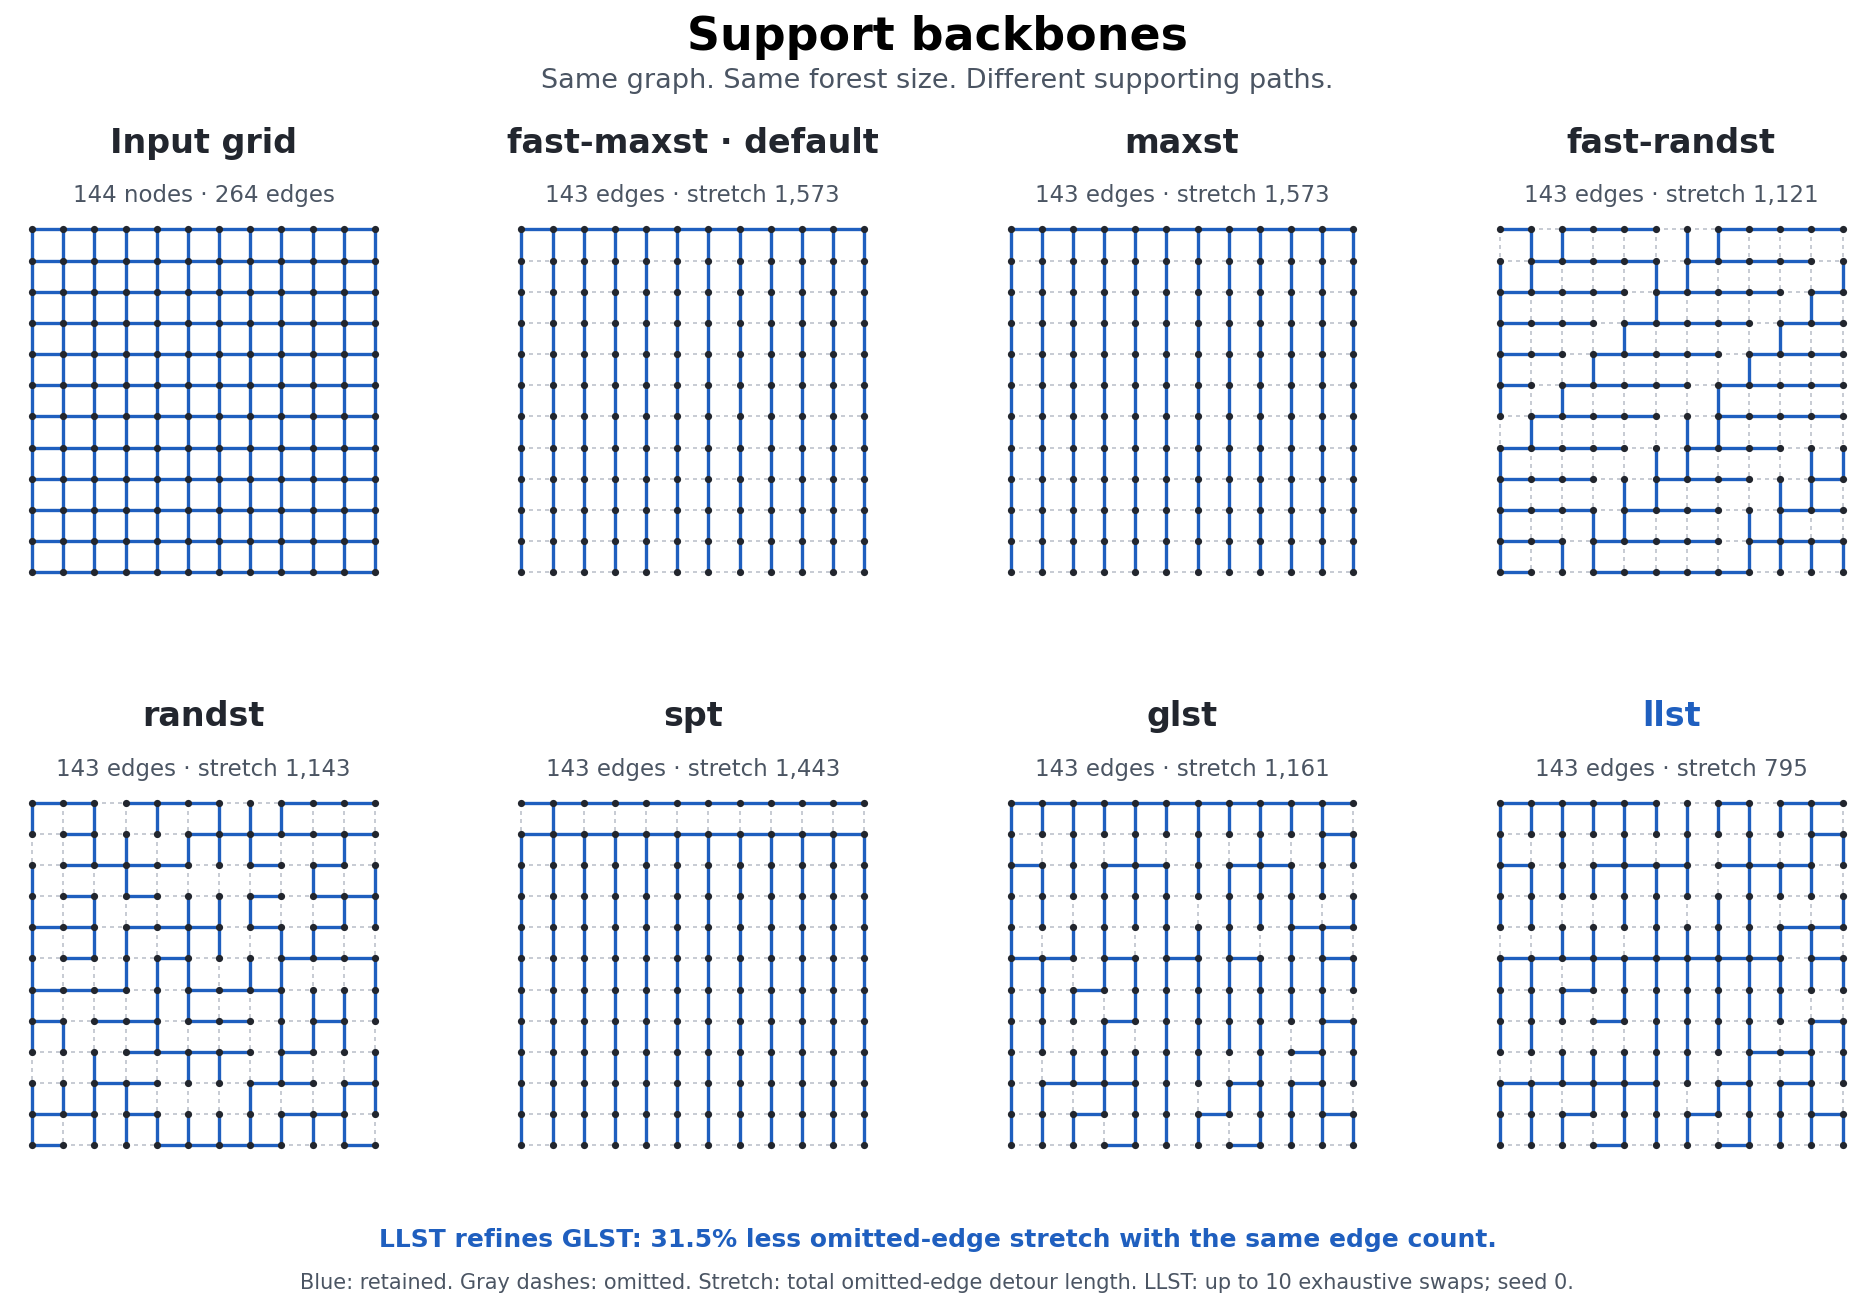
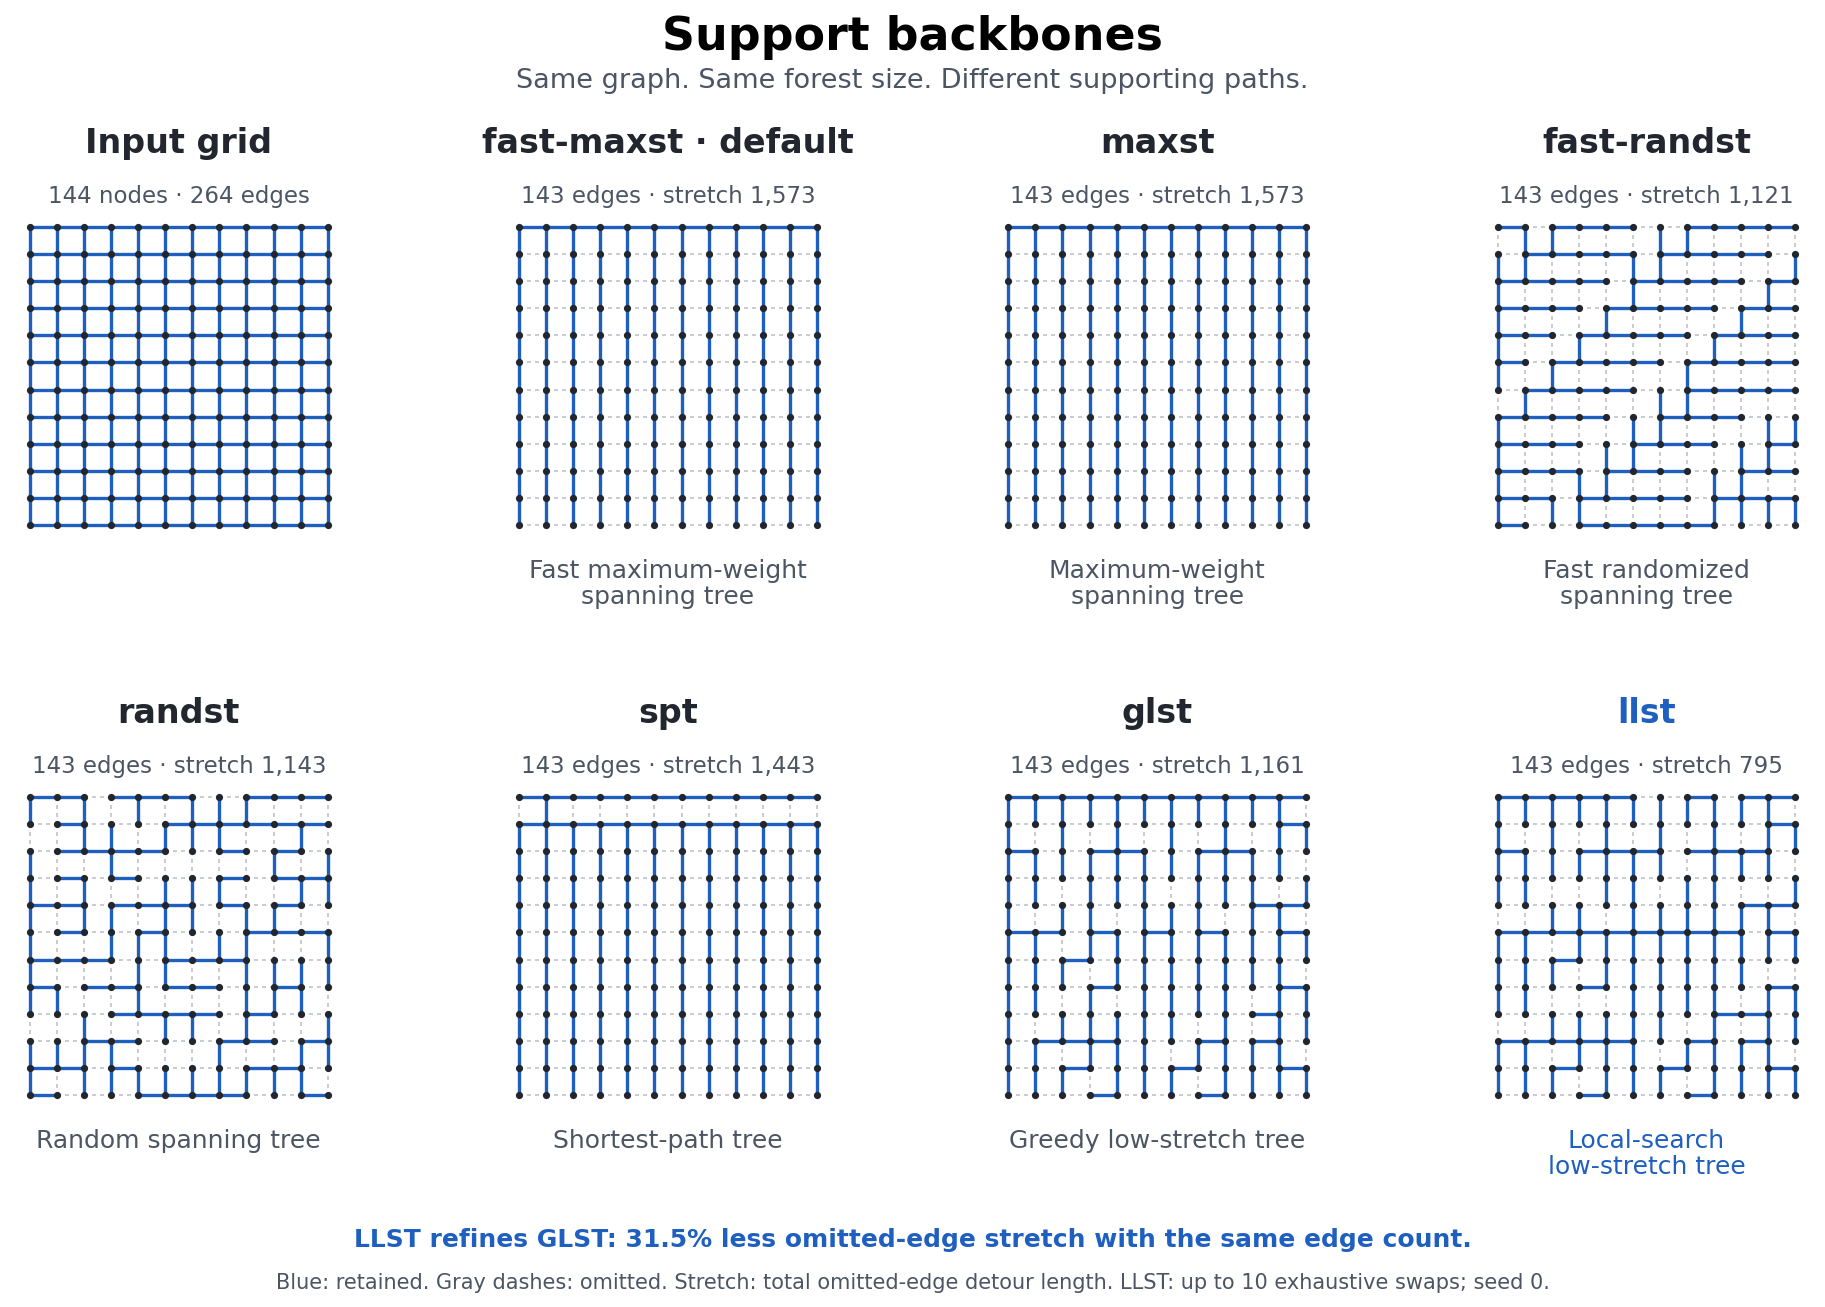
updated

diff --git a/examples/01_grid_demo.py b/examples/01_grid_demo.py
@@ -37,6 +37,15 @@ KEEP_RATIO = 0.72  # a 12x12 grid needs 143/264 = 0.542 just to stay connected
 SEED = 0
 DEMO_BACKBONE = "randst"
 SAMPLE_DEMO_BACKBONE = "fixed-randst"
+BACKBONE_NAMES = {
+    "fast-maxst": "Fast maximum-weight\nspanning tree",
+    "maxst": "Maximum-weight\nspanning tree",
+    "fast-randst": "Fast randomized\nspanning tree",
+    "randst": "Random spanning tree",
+    "spt": "Shortest-path tree",
+    "glst": "Greedy low-stretch tree",
+    "llst": "Local-search\nlow-stretch tree",
+}
 
 
 def figure_backbones(graph, positions, out_dir):
@@ -143,6 +152,17 @@ def _draw_backbones(graph, positions, out_dir, masks, measurements):
             mask=mask,
             accent=name == "llst",
         )
+        ax.text(
+            0.5,
+            -0.055,
+            BACKBONE_NAMES[name],
+            transform=ax.transAxes,
+            ha="center",
+            va="top",
+            fontsize=12,
+            linespacing=1.15,
+            color="#1f5fbf" if name == "llst" else "#4b5563",
+        )
     reduction = 1 - measurements["llst"]["omitted_edge_stretch"] / max(
         1.0, measurements["glst"]["omitted_edge_stretch"]
     )
@@ -175,7 +195,7 @@ def _draw_backbones(graph, positions, out_dir, masks, measurements):
         color="#4b5563",
     )
     fig.subplots_adjust(
-        left=0.015, right=0.985, bottom=0.11, top=0.83, wspace=0.08, hspace=0.52
+        left=0.015, right=0.985, bottom=0.15, top=0.83, wspace=0.08, hspace=0.74
     )
     return _save(fig, out_dir, "grid_backbones.png")
 
@@ -223,7 +243,7 @@ def _animate_backbones(graph, positions, out_dir, masks, measurements):
         fig.text(
             0.5,
             0.91,
-            f"{index} / {len(masks)}     ·     same graph, seed 0",
+            f"{index} / {len(masks)}     ·     {BACKBONE_NAMES[name].replace(chr(10), ' ')}",
             ha="center",
             fontsize=12,
             color="#4b5563",

diff --git a/docs/backbones.md b/docs/backbones.md
@@ -13,7 +13,14 @@ The backbone is the spanning forest SCAFFOLD grows from. It does two jobs:
 
 The default is `fast-maxst`.
 
-![backbones on a grid](images/grid_backbones.png)
+The figure spells out each name: **MaxST** is a maximum-weight spanning tree,
+**RandST** a random spanning tree, **SPT** a shortest-path tree, **GLST** a
+greedy low-stretch tree, and **LLST** a local-search low-stretch tree.
+The `fast-` variants use cheaper edge ordering. Minimum-weight spanning trees
+use `mst` (MinST) or `fast-mst` in the API. These constructions return forests
+when the input has multiple connected components.
+
+![Seven support backbones with full method names and measured stretch](images/grid_backbones.png)
 
 The 12×12 grid comparison includes LLST beside its GLST initializer. Every
 backbone has 143 edges and one connected component; each label reports the

diff --git a/examples/README.md b/examples/README.md
@@ -32,8 +32,8 @@ each named construction.
 
 | file | shows |
 |---|---|
-| `grid_backbones.png` | input grid and seven backbones, including GLST and its LLST refinement, with measured stretch |
-| `grid_backbones.gif` | animated comparison of the same seven completed forests; LLST is the final frame |
+| `grid_backbones.png` | input grid and seven backbones, with full method names and measured stretch |
+| `grid_backbones.gif` | animated comparison of the same seven completed forests; each frame expands the name and explains construction; LLST is last |
 | `grid_methods.png` | input and five algorithms at one budget in a 2×3 grid |
 | `grid_ratios.png` | input and five Fast retention ratios in a 2×3 grid |
 | `grid_scores.png` | input, Sample weights, inclusion probabilities, and one draw in a 2×2 grid |
